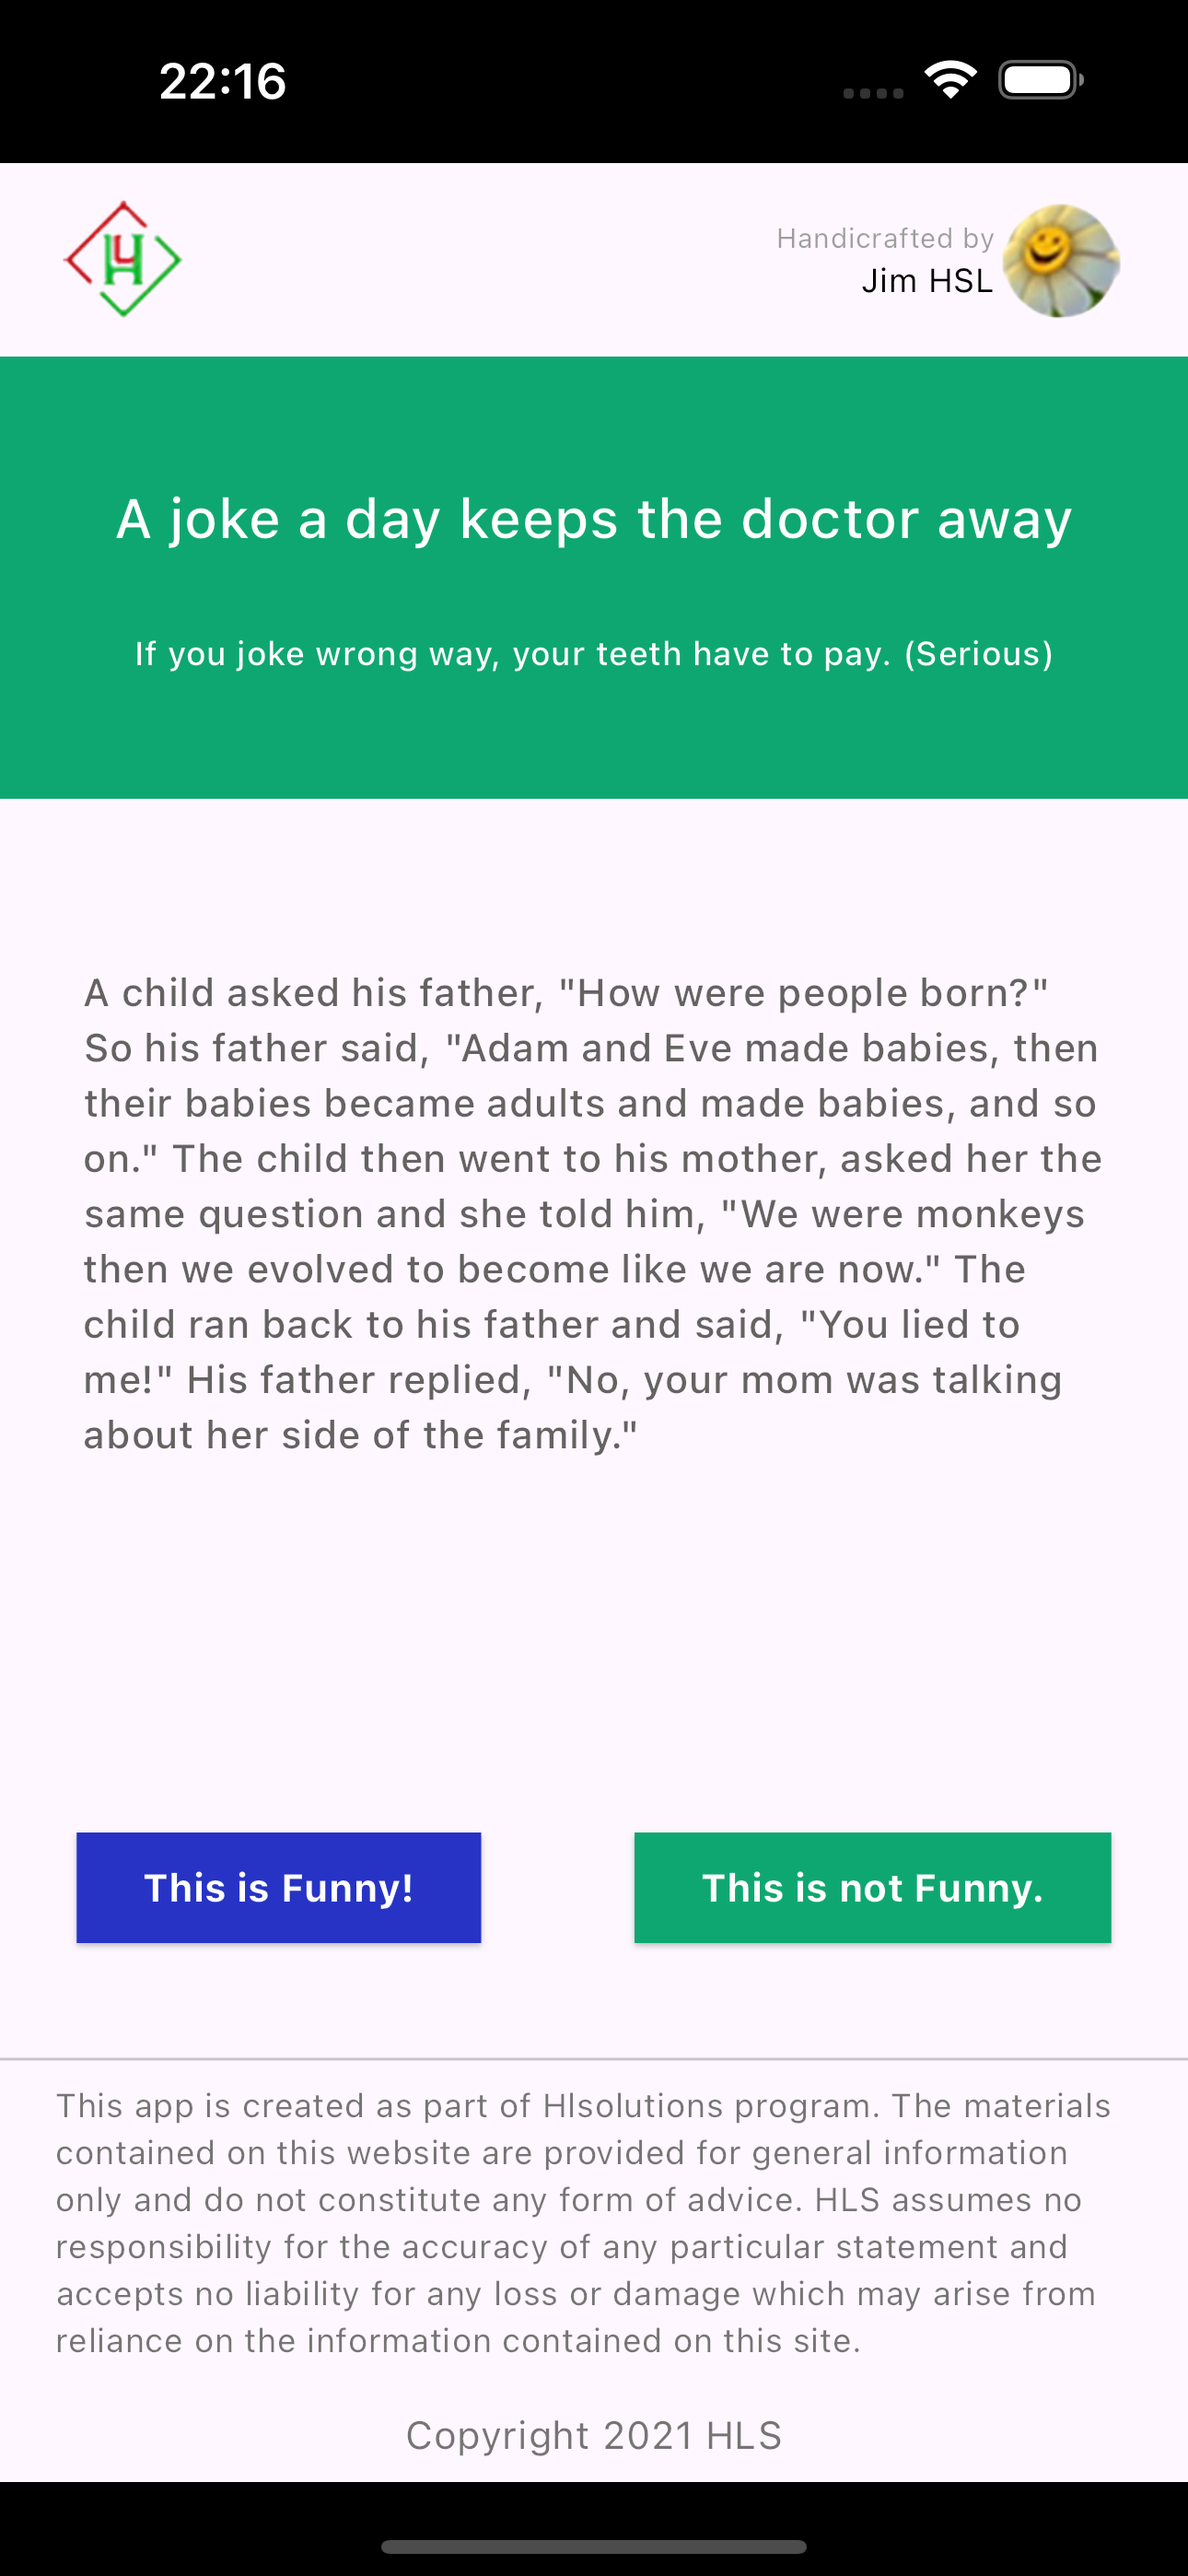
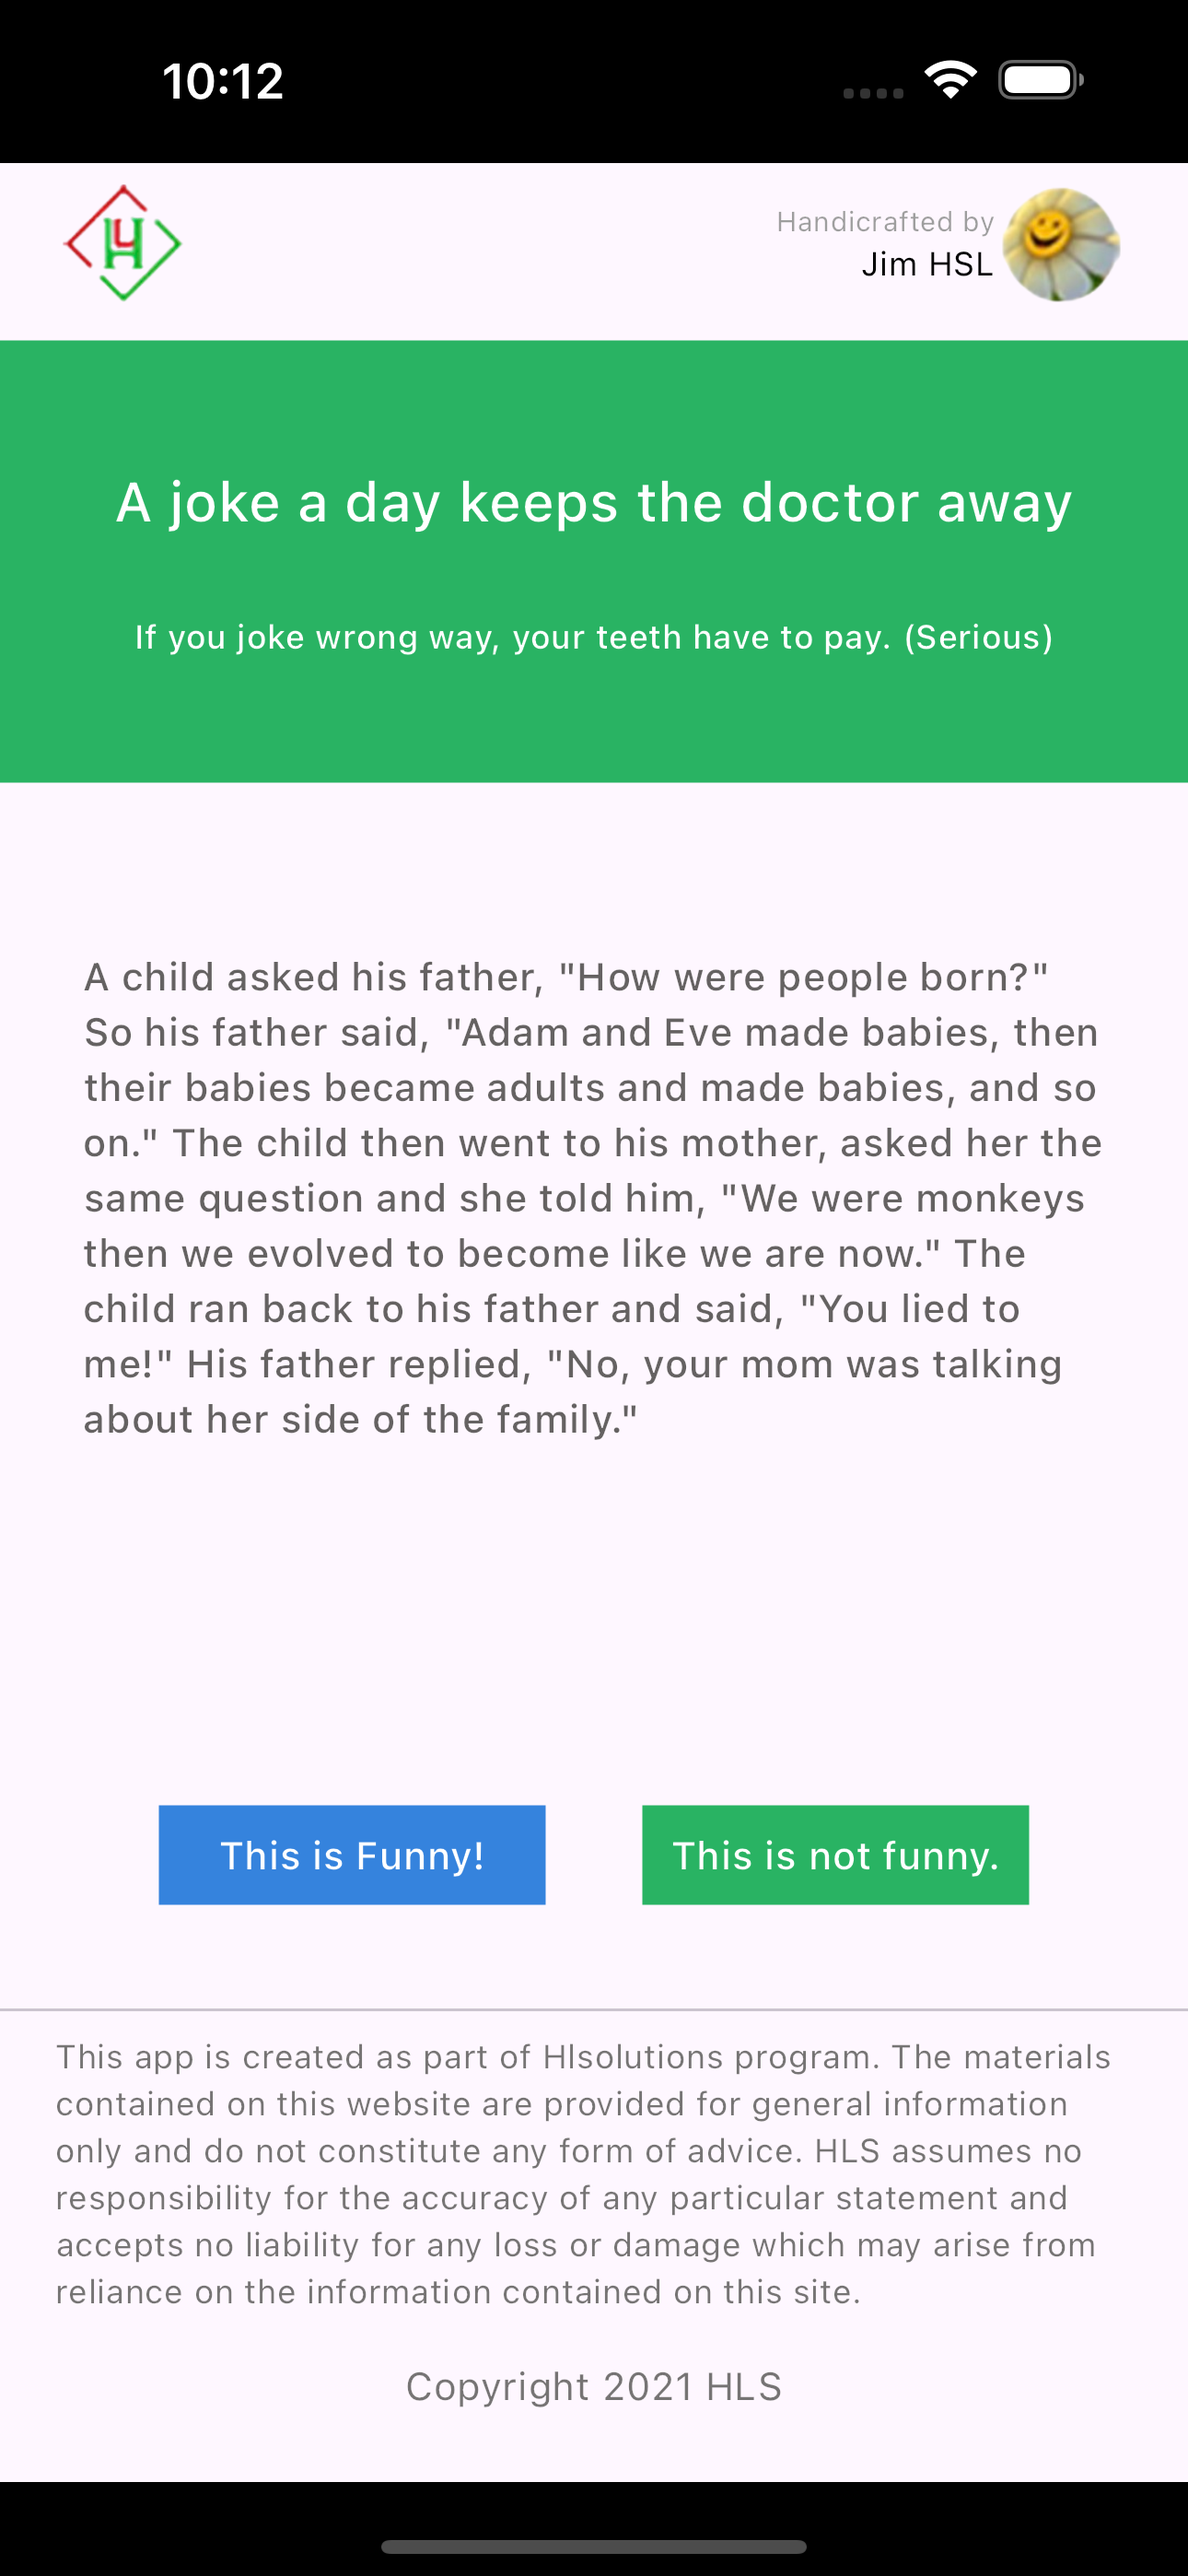
first commit

diff --git a/lib/modules/my_home.dart b/lib/modules/my_home.dart
@@ -38,7 +38,7 @@ class MyHomePage extends StatelessWidget {
           Row(
             children: [
               _buildAuthorInfo(),
-              _buildLogo('assets/images/hi.png'),
+              _buildLogo(ImageConstant.imgHeaderRight),
             ],
           ),
         ],
@@ -104,16 +104,16 @@ class MyHomePage extends StatelessWidget {
 
   Widget _buildActionButtons() {
     return Padding(
-      padding: EdgeInsets.symmetric(vertical: 30.v),
+      padding: EdgeInsets.symmetric(vertical: 30.v, horizontal: 40),
       child: Row(
         mainAxisAlignment: MainAxisAlignment.spaceAround,
         children: [
           _buildButton(
             'This is Funny!',
-            ColorConstants.nearlyDarkBlue,
+            ColorConstants.blue,
           ),
           _buildButton(
-            'This is not Funny.',
+            'This is not funny.',
             ColorConstants.green,
           ),
         ],
@@ -122,15 +122,22 @@ class MyHomePage extends StatelessWidget {
   }
 
   Widget _buildButton(String text, Color color) {
-    return ElevatedButton(
-      style: ElevatedButton.styleFrom(
-        backgroundColor: color,
-        shape: const RoundedRectangleBorder(borderRadius: BorderRadius.zero),
-      ),
-      onPressed: () {},
-      child: Text(
-        text,
-        style: CustomTextStyles.textElevatedButton,
+    return SizedBox(
+      width: 140.h,
+      child: InkWell(
+        onTap: () {},
+        child: Container(
+          decoration: BoxDecoration(
+            color: color,
+            borderRadius: BorderRadius.zero,
+          ),
+          padding: const EdgeInsets.symmetric(vertical: 8.0),
+          alignment: Alignment.center,
+          child: Text(
+            text,
+            style: CustomTextStyles.textElevatedButton,
+          ),
+        ),
       ),
     );
   }

diff --git a/lib/share/constant/colors.dart b/lib/share/constant/colors.dart
@@ -15,8 +15,9 @@ class ColorConstants {
   static const Color lightGreenColor = Color(0xFF94E059);
   static const Color orangeColor = Color(0xFFFF5630);
   static const Color lightBlueColor = Color(0xFF5C9CE4);
-  static const Color green = Color(0XFF0EA772);
-  static const Color blue = Colors.blue;
+  static const Color green = Color(0xFF29B363);
+
+  static const Color blue = Color(0xFF3583DD);
 }
 
 Color hexToColor(String hex) {

diff --git a/lib/share/utils/custom_text.dart b/lib/share/utils/custom_text.dart
@@ -11,7 +11,7 @@ class CustomTextStyles {
       );
   static get textElevatedButton => const TextStyle(
         color: Colors.white,
-        fontWeight: FontWeight.bold,
+        fontWeight: FontWeight.w500,
         fontSize: 14,
       );
   static get textBody => const TextStyle(
